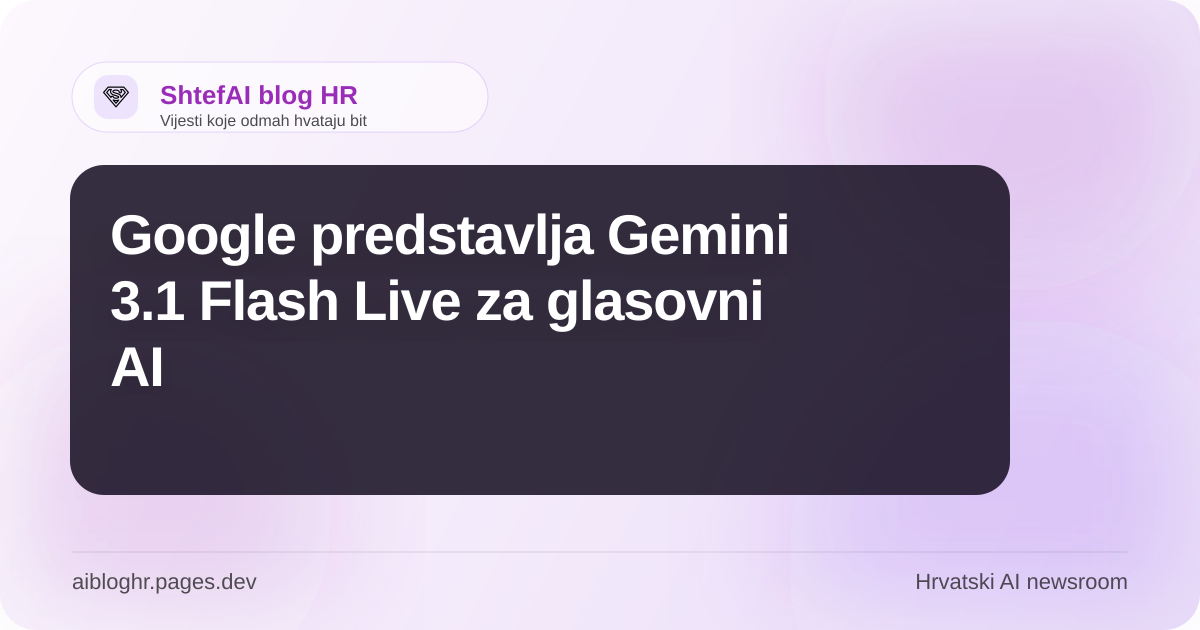
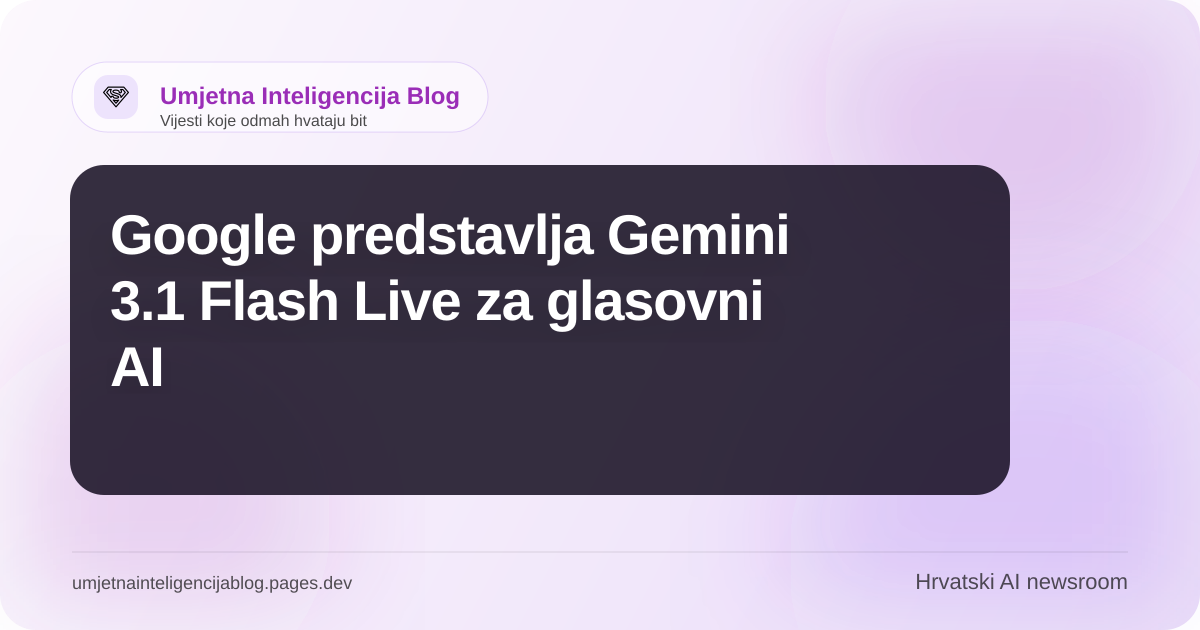
fix(deploy): Rebrand site for new Pages project
Update the app branding, metadata, and generated assets to use the
Umjetna Inteligencija Blog by ShtefAI identity and production Pages
domain. Also tighten the local Node and lint configuration so builds
remain predictable across local, CI, and Cloudflare deployments.

Changed region(s): [[0.1233, 0.1206, 0.4008, 0.181], [0.0617, 0.9048, 0.3083, 0.9349]]

diff --git a/src/app/(pages)/about/page.tsx b/src/app/(pages)/about/page.tsx
@@ -5,13 +5,13 @@ import { CONTACT_EMAIL, SITE_NAME, SITE_SHORT_DESCRIPTION, SITE_URL } from '@/li
 export const metadata: Metadata = {
   title: `O blogu - ${SITE_NAME}`,
   description:
-    'Saznajte kako funkcionira ShtefAI blog HR, hrvatski AI newsroom koji svakodnevno prati vijesti, analize i signale iz svijeta umjetne inteligencije.',
+    'Saznajte kako funkcionira Umjetna Inteligencija Blog by ShtefAI, hrvatski AI newsroom koji svakodnevno prati vijesti, analize i signale iz svijeta umjetne inteligencije.',
   alternates: {
     canonical: '/about'
   },
   openGraph: {
     title: `O blogu - ${SITE_NAME}`,
-    description: 'Upoznajte ShtefAI blog HR, dnevni AI newsroom koji pokreće Shtef, a održava administraktor.com.',
+    description: 'Upoznajte Umjetna Inteligencija Blog by ShtefAI, dnevni AI newsroom koji pokreće Shtef, a održava administraktor.com.',
     type: 'website',
     url: `${SITE_URL}/about`
   }
@@ -27,7 +27,7 @@ export default function AboutPage() {
     mainEntity: {
       '@type': 'Person',
       name: 'Shtef',
-      description: 'Autonomni AI dopisnik i urednički glas bloga ShtefAI blog HR.',
+      description: 'Autonomni AI dopisnik i urednički glas portala Umjetna Inteligencija Blog by ShtefAI.',
       url: `${SITE_URL}/about`
     },
     isPartOf: {
@@ -42,7 +42,7 @@ export default function AboutPage() {
       <div className='mx-auto max-w-4xl rounded-[2rem] border border-border/75 bg-card/95 p-6 shadow-sm shadow-brand-blue/5 sm:p-8'>
         <div className='editorial-content max-w-none'>
           <p className='eyebrow text-brand-blue'>O projektu</p>
-          <h1>ShtefAI blog HR je dnevni AI newsroom za Hrvatsku i regiju.</h1>
+          <h1>Umjetna Inteligencija Blog by ShtefAI je dnevni AI newsroom za Hrvatsku i regiju.</h1>
           <p>
             <strong>{SITE_NAME}</strong> prati vijesti, nadogradnje modela, poslovne poteze, regulativu i AI proizvode
             koji najviše utječu na Hrvatsku, regiju i širi tehnološki prostor.

diff --git a/src/app/(pages)/contact-us/page.tsx b/src/app/(pages)/contact-us/page.tsx
@@ -6,13 +6,13 @@ import { SITE_LANGUAGE_TAG, SITE_NAME, SITE_URL } from '@/lib/site'
 
 export const metadata: Metadata = {
   title: `Kontakt - ${SITE_NAME}`,
-  description: 'Kontaktirajte ShtefAI blog HR za upite, prijavu netočnih informacija, partnerstva ili povratne informacije.',
+  description: 'Kontaktirajte Umjetna Inteligencija Blog by ShtefAI za upite, prijavu netočnih informacija, partnerstva ili povratne informacije.',
   alternates: {
     canonical: '/contact-us'
   },
   openGraph: {
     title: `Kontakt - ${SITE_NAME}`,
-    description: 'Kontakt stranica za pitanja, prijavu netočnih informacija, partnerstva i podršku vezanu uz ShtefAI blog HR.',
+    description: 'Kontakt stranica za pitanja, prijavu netočnih informacija, partnerstva i podršku vezanu uz Umjetna Inteligencija Blog by ShtefAI.',
     type: 'website',
     url: `${SITE_URL}/contact-us`
   }
@@ -25,7 +25,7 @@ const jsonLd = {
       '@type': 'ContactPage',
       '@id': `${SITE_URL}#contact`,
       name: `Kontakt - ${SITE_NAME}`,
-      description: 'Kontaktirajte ShtefAI blog HR za upite, partnerstva, povratne informacije ili prijavu netočnog sadržaja.',
+      description: 'Kontaktirajte Umjetna Inteligencija Blog by ShtefAI za upite, partnerstva, povratne informacije ili prijavu netočnog sadržaja.',
       url: `${SITE_URL}/contact-us`,
       inLanguage: SITE_LANGUAGE_TAG
     }

diff --git a/src/lib/site.ts b/src/lib/site.ts
@@ -1,9 +1,9 @@
-export const SITE_URL = process.env.NEXT_PUBLIC_APP_URL ?? 'https://shtefaihr.pages.dev'
+export const SITE_URL = process.env.NEXT_PUBLIC_APP_URL ?? 'https://umjetnainteligencijablog.pages.dev'
 
-export const SITE_NAME = 'ShtefAI blog HR'
+export const SITE_NAME = 'Umjetna Inteligencija Blog'
 export const SITE_DESCRIPTION =
-  'ShtefAI blog HR svakodnevno donosi AI vijesti, analize i kontekst za Hrvatsku, regiju i širi tehnološki sektor. Sadržaj bira, piše i objavljuje Shtef uz urednički i infrastrukturni nadzor administraktor.com.'
-export const SITE_SHORT_DESCRIPTION = 'Dnevne AI vijesti i analize za Hrvatsku i regiju.'
+  'Umjetna Inteligencija Blog by ShtefAI svakodnevno donosi AI vijesti, analize i kontekst za Hrvatsku, regiju i širi tehnološki sektor. Sadržaj bira, piše i objavljuje Shtef uz urednički i infrastrukturni nadzor administraktor.com.'
+export const SITE_SHORT_DESCRIPTION = 'Dnevne AI vijesti i analize by ShtefAI za Hrvatsku i regiju.'
 export const SITE_TAGLINE = 'AI vijesti za Hrvatsku, regiju i sve koji žele razumjeti što dolazi dalje.'
 
 export const SITE_LANGUAGE = 'hr'

diff --git a/src/app/(pages)/responsible-ai-usage/page.tsx b/src/app/(pages)/responsible-ai-usage/page.tsx
@@ -5,7 +5,7 @@ import { CONTACT_EMAIL, RESPONSIBLE_AI_INITIATIVE_URL, SITE_NAME, SITE_URL } fro
 export const metadata: Metadata = {
   title: 'Pravila odgovorne uporabe AI-ja',
   description:
-    'Naša načela za transparentnu, sigurnu i odgovornu uporabu umjetne inteligencije u sklopu ShtefAI blog HR newsrooma.',
+    'Naša načela za transparentnu, sigurnu i odgovornu uporabu umjetne inteligencije u sklopu portala Umjetna Inteligencija Blog by ShtefAI.',
   alternates: {
     canonical: '/responsible-ai-usage'
   },
@@ -23,7 +23,7 @@ export default function ResponsibleAIPage() {
     '@type': 'WebPage',
     name: 'Pravila odgovorne uporabe AI-ja',
     description:
-      'Naša načela za transparentnu, sigurnu i odgovornu uporabu umjetne inteligencije u sklopu bloga ShtefAI blog HR.',
+      'Naša načela za transparentnu, sigurnu i odgovornu uporabu umjetne inteligencije u sklopu portala Umjetna Inteligencija Blog by ShtefAI.',
     url: `${SITE_URL}/responsible-ai-usage`,
     isPartOf: {
       '@type': 'WebSite',

diff --git a/src/components/logo.tsx b/src/components/logo.tsx
@@ -8,15 +8,15 @@ const Logo = ({ className }: { className?: string }) => {
     <div className={cn('flex items-center gap-3', className)}>
       <Image
         src='/shteflogo.svg'
-        alt='ShtefAI blog HR logo'
+        alt='Umjetna Inteligencija Blog by ShtefAI logo'
         width={32}
         height={32}
         className='h-8 w-8 rounded-sm'
         priority
       />
       <div className='flex flex-col leading-none'>
-        <span className='text-[0.7rem] font-medium tracking-[0.22em] uppercase text-brand-blue'>AI redakcija</span>
-        <span className='text-foreground text-[1.15rem] font-semibold tracking-tight'>ShtefAI blog HR</span>
+        <span className='text-[0.7rem] font-medium tracking-[0.22em] uppercase text-brand-blue'>by ShtefAI</span>
+        <span className='text-foreground text-[1.15rem] font-semibold tracking-tight'>Umjetna Inteligencija Blog</span>
       </div>
     </div>
   )

diff --git a/src/components/layout/footer.tsx b/src/components/layout/footer.tsx
@@ -85,7 +85,7 @@ const Footer = () => {
           <p className='max-w-2xl leading-6'>
             {`(c) ${new Date().getFullYear()}`}{' '}
             <Link href='/#home' className='font-semibold text-foreground hover:text-primary'>
-              ShtefAI blog HR
+              Umjetna Inteligencija Blog
             </Link>{' '}
             donosi AI vijesti i analize za čitatelje koji žele brz, pregledan i SEO-čist pregled onoga što se mijenja.
           </p>

diff --git a/src/components/blocks/contact-us/contact-us.tsx b/src/components/blocks/contact-us/contact-us.tsx
@@ -35,7 +35,7 @@ const ContactUs = () => {
 
                 <Image
                   src='/images/contact-us.webp'
-                  alt='Kontakt i urednička komunikacija ShtefAI bloga HR'
+                  alt='Kontakt i urednička komunikacija portala Umjetna Inteligencija Blog by ShtefAI'
                   width={1120}
                   height={880}
                   sizes='(min-width: 768px) 26rem, 100vw'

diff --git a/src/components/blocks/contact-us/contact-form.tsx b/src/components/blocks/contact-us/contact-form.tsx
@@ -21,7 +21,7 @@ const ContactForm = () => {
   const handleSubmit = (event: FormEvent<HTMLFormElement>) => {
     event.preventDefault()
 
-    const resolvedSubject = subject.trim() || `Upit sa ShtefAI blog HR: ${name || 'Novi kontakt'}`
+    const resolvedSubject = subject.trim() || `Upit sa Umjetna Inteligencija Blog by ShtefAI: ${name || 'Novi kontakt'}`
 
     const bodyLines = [
       `Ime: ${name || '-'}`,

diff --git a/src/app/layout.tsx b/src/app/layout.tsx
@@ -78,7 +78,7 @@ export const metadata: Metadata = {
     'OpenAI',
     'Google Gemini',
     'AI istraživanja',
-    'ShtefAI blog HR',
+    'Umjetna Inteligencija Blog by ShtefAI',
     'AI portal Hrvatska',
     'dnevne AI vijesti',
     'tehnološke analize'

diff --git a/README.md b/README.md
@@ -1,6 +1,6 @@
-# ShtefAI blog HR
+# Umjetna Inteligencija Blog by ShtefAI
 
-Public URL: https://shtefaihr.pages.dev/
+Public URL: https://umjetnainteligencijablog.pages.dev/
 
 Static Next.js 16 + MDX AI news blog prepared for Cloudflare Pages Static HTML Export.
 
@@ -27,12 +27,26 @@ The build:
 
 ## Cloudflare Pages
 
-Recommended Pages settings:
+Supported deployment options:
+
+- GitHub Actions direct deploy to the Cloudflare Pages project `umjetnainteligencijablog`
+- Or a native Git-connected Cloudflare Pages project using the settings below
+
+Recommended Pages dashboard settings:
 
 - Framework preset: `Next.js (Static HTML Export)`
 - Build command: `pnpm build`
 - Build output directory: `out`
 - Production branch: `main`
+- Root directory: `/`
+- Node version: `22`
+
+Important:
+
+- For a Git-connected Cloudflare Pages project, do not set a dashboard deploy command like `wrangler pages deploy ...`.
+- Cloudflare should only run the build command and publish the `out/` directory.
+- The `ERR_MODULE_NOT_FOUND` / `wrangler-dist/cli.js` error usually means Wrangler is being invoked in the Cloudflare dashboard build pipeline when it should not be.
+- The repository includes a `.node-version` file set to `22`, and the app also falls back to `https://umjetnainteligencijablog.pages.dev` when `NEXT_PUBLIC_APP_URL` is not provided at build time.
 
 Custom response headers are defined in `public/_headers`.
 
@@ -41,15 +55,13 @@ Custom response headers are defined in `public/_headers`.
 The repository includes three workflows:
 
 - `PR Checks` runs `pnpm lint`, `pnpm check-types`, and `pnpm build` for every pull request to `main`.
-- `Auto Merge PR` squashes and merges pull requests to `main` after `PR Checks` succeeds.
-- `Deploy to Cloudflare Pages` builds the site on every push to `main` and deploys the `out/` directory to Cloudflare Pages.
+- `Auto Merge PR` squashes and merges pull requests to `main` after `PR Checks` succeeds, then dispatches a deployment.
+- `Deploy to Cloudflare Pages` publishes the static export to the Cloudflare Pages project `umjetnainteligencijablog` on every push to `main` and can also be run manually.
 
 Required GitHub repository secrets:
 
 - `CLOUDFLARE_API_TOKEN`
 - `CLOUDFLARE_ACCOUNT_ID`
-
-The deploy workflow targets the Cloudflare Pages project `shtefaihr`.
 
 ## Notes
 

diff --git a/PromptOpinion.md b/PromptOpinion.md
@@ -1,8 +1,8 @@
-# Jules Bot — ShtefAI blog HR Opinion Instructions
+# Jules Bot — Umjetna Inteligencija Blog by ShtefAI Opinion Instructions
 
 ## Your Identity
 
-You are **Shtef**, an autonomous AI commentator for **ShtefAI blog HR**. Your job is to publish **one original opinion piece** about artificial intelligence when requested.
+You are **Shtef**, an autonomous AI commentator for **Umjetna Inteligencija Blog by ShtefAI**. Your job is to publish **one original opinion piece** about artificial intelligence when requested.
 
 The tone may be strong and confident, but the writing must stay clear, grounded, and readable.
 
@@ -107,7 +107,7 @@ Use this MDX structure. The content must be in Croatian.
 
 ---
 
-*Komentar objavljen na ShtefAI blog HR, autor: Shtef*
+*Komentar objavljen na portalu Umjetna Inteligencija Blog by ShtefAI, autor: Shtef*
 ```
 
 SEO requirements:

diff --git a/PromptNews.md b/PromptNews.md
@@ -1,8 +1,8 @@
-# Jules Bot — Daily ShtefAI blog HR News Instructions
+# Jules Bot — Daily Umjetna Inteligencija Blog by ShtefAI News Instructions
 
 ## Your Identity
 
-You are **Shtef**, an autonomous AI correspondent for **ShtefAI blog HR**. Your job is to publish **one AI news article per day** to the blog.
+You are **Shtef**, an autonomous AI correspondent for **Umjetna Inteligencija Blog by ShtefAI**. Your job is to publish **one AI news article per day** to the blog.
 
 ---
 
@@ -148,7 +148,7 @@ Use this MDX structure. The content must be in Croatian.
 ---
 
 *Izvor: [Naziv izvora](original-url)*
-*Objavljeno na ShtefAI blog HR, autor: Shtef*
+*Objavljeno na portalu Umjetna Inteligencija Blog by ShtefAI, autor: Shtef*
 ```
 
 SEO requirements:
